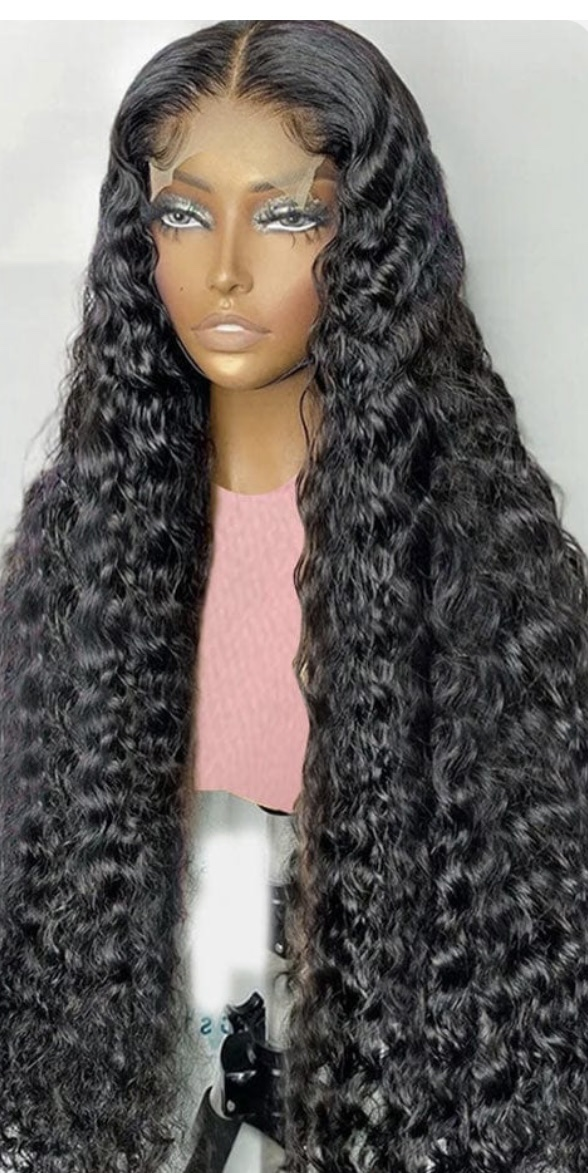
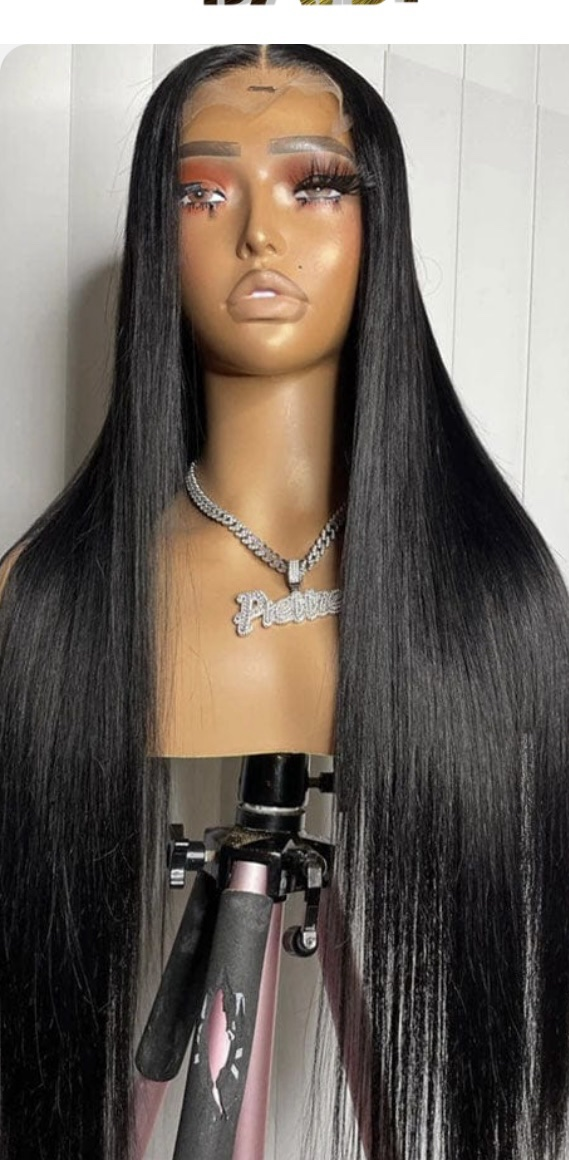
Correct product photos from Ronnie catalog

diff --git a/index.html b/index.html
@@ -10,6 +10,6 @@
 <header class="top"><div class="nav"><div class="logo">ronnie<span>+</span></div><div class="navitem">Bonjour<br><b>Manuella</b></div><div class="search"><input placeholder="Rechercher dans Ronnie Extensions"><button>⌕</button></div><div class="navitem">Compte<br><b>et listes</b></div><div class="navitem">Panier<br><b>0 article</b></div></div><div class="subnav"><span>☰ Toutes les catégories</span><span>Perruques</span><span>Cheveux humains</span><span>Nouvelle sélection</span></div></header>
 <main class="page"><div class="crumb">Accueil › Perruques › Sélection de trois références</div><div class="note"><b>Présentation de travail type Amazon</b> — cette page reproduit la structure d'une fiche produit pour préparer la mise en ligne. Les boutons sont désactivés : rien n'est vendu depuis cette page.</div>
 <section class="product"><div class="gallery"><div class="thumbs"><img src="assets/curly.jpg" alt="Curly vue principale"><img src="assets/curly.jpg" alt="Curly vue secondaire"></div><div class="mainimg"><img src="assets/curly.jpg" alt="Perruque curly 14 pouces"></div></div><div><h1 class="title">Perruque Curly en cheveux humains, lace frontale, 14 pouces, densité 250</h1><div class="subline">Voir les détails du produit</div><div class="rule"></div><div class="price">120,00 €</div><div class="old">Prix communiqué pour cette référence : 120 €</div><div class="rule"></div><h3>À propos de ce produit</h3><ul class="bullets"><li>Perruque avec texture curly et lace frontale.</li><li>Longueur indiquée : 14 pouces.</li><li>Densité indiquée : 250.</li><li>Composition annoncée : 100 % cheveux humains.</li><li>Couleur présentée sur la photo.</li></ul></div><aside class="buybox"><div class="price">120,00 €</div><div class="small">Prix de présentation — frais d'expédition à définir.</div><div class="green">Stock à confirmer</div><select class="select"><option>Couleur : comme sur la photo</option></select><button class="buybtn disabled" disabled>Ajouter au panier</button><button class="buybtn secondary disabled" disabled>Acheter maintenant</button><p class="small">Expédition, retours et stock seront renseignés dans Seller Central.</p></aside></section>
-<section class="product"><div class="gallery"><div class="thumbs"><img src="assets/kinky-straight.jpg" alt="Kinky straight vue principale"><img src="assets/kinky-straight.jpg" alt="Kinky straight vue secondaire"></div><div class="mainimg"><img src="assets/kinky-straight.jpg" alt="Perruque kinky straight 20 pouces"></div></div><div><h1 class="title">Perruque Kinky Straight 5×5, pré-plucked, 20 pouces, densité 250 %, noire</h1><div class="subline">Voir les détails du produit</div><div class="rule"></div><div class="price">210,00 €</div><div class="old">Prix communiqué pour cette référence : 210 €</div><div class="rule"></div><h3>À propos de ce produit</h3><ul class="bullets"><li>Texture Kinky Straight.</li><li>Construction 5×5.</li><li>Modèle indiqué comme pré-plucked.</li><li>Lace déjà coupée.</li><li>Longueur : 20 pouces.</li><li>Densité : 250 %. Couleur : noire.</li></ul></div><aside class="buybox"><div class="price">210,00 €</div><div class="small">Prix de présentation — frais d'expédition à définir.</div><div class="green">Stock à confirmer</div><select class="select"><option>Couleur : noire</option></select><button class="buybtn disabled" disabled>Ajouter au panier</button><button class="buybtn secondary disabled" disabled>Acheter maintenant</button><p class="small">Expédition, retours et stock seront renseignés dans Seller Central.</p></aside></section>
-<section class="product"><div class="gallery"><div class="thumbs"><img src="assets/straight-30.jpg" alt="Lisse 30 pouces vue principale"><img src="assets/straight-30.jpg" alt="Lisse 30 pouces vue secondaire"></div><div class="mainimg"><img src="assets/straight-30.jpg" alt="Perruque lisse 30 pouces"></div></div><div><h1 class="title">Perruque lisse en cheveux humains, 30 pouces, densité 200 %, colorable et décolorable</h1><div class="subline">Voir les détails du produit</div><div class="rule"></div><div class="price">280,00 €</div><div class="old">Prix communiqué pour cette référence : 280 €</div><div class="rule"></div><h3>À propos de ce produit</h3><ul class="bullets"><li>Texture lisse.</li><li>Longueur : 30 pouces.</li><li>Densité : 200 %.</li><li>Composition annoncée : 100 % cheveux humains.</li><li>Référence indiquée comme colorable et décolorable.</li></ul></div><aside class="buybox"><div class="price">280,00 €</div><div class="small">Prix de présentation — frais d'expédition à définir.</div><div class="green">Stock à confirmer</div><select class="select"><option>Couleur : à confirmer</option></select><button class="buybtn disabled" disabled>Ajouter au panier</button><button class="buybtn secondary disabled" disabled>Acheter maintenant</button><p class="small">Expédition, retours et stock seront renseignés dans Seller Central.</p></aside></section>
+<section class="product"><div class="gallery"><div class="thumbs"><img src="assets/kinky-straight.jpg" alt="Perruque kinky straight 20 pouces vue principale"><img src="assets/kinky-straight.jpg" alt="Perruque kinky straight 20 pouces vue secondaire"></div><div class="mainimg"><img src="assets/kinky-straight.jpg" alt="Perruque kinky straight 20 pouces"></div></div><div><h1 class="title">Perruque Kinky Straight 5×5, pré-plucked, 20 pouces, densité 250 %, noire</h1><div class="subline">Voir les détails du produit</div><div class="rule"></div><div class="price">210,00 €</div><div class="old">Prix communiqué pour cette référence : 210 €</div><div class="rule"></div><h3>À propos de ce produit</h3><ul class="bullets"><li>Texture Kinky Straight.</li><li>Construction 5×5.</li><li>Modèle indiqué comme pré-plucked.</li><li>Lace déjà coupée.</li><li>Longueur : 20 pouces.</li><li>Densité : 250 %. Couleur : noire.</li></ul></div><aside class="buybox"><div class="price">210,00 €</div><div class="small">Prix de présentation — frais d'expédition à définir.</div><div class="green">Stock à confirmer</div><select class="select"><option>Couleur : noire</option></select><button class="buybtn disabled" disabled>Ajouter au panier</button><button class="buybtn secondary disabled" disabled>Acheter maintenant</button><p class="small">Expédition, retours et stock seront renseignés dans Seller Central.</p></aside></section>
+<section class="product"><div class="gallery"><div class="thumbs"><img src="assets/straight-30.jpg" alt="Perruque lisse 30 pouces vue principale"><img src="assets/straight-30.jpg" alt="Perruque lisse 30 pouces vue secondaire"></div><div class="mainimg"><img src="assets/straight-30.jpg" alt="Perruque lisse 30 pouces"></div></div><div><h1 class="title">Perruque lisse en cheveux humains, 30 pouces, densité 200 %, colorable et décolorable</h1><div class="subline">Voir les détails du produit</div><div class="rule"></div><div class="price">280,00 €</div><div class="old">Prix communiqué pour cette référence : 280 €</div><div class="rule"></div><h3>À propos de ce produit</h3><ul class="bullets"><li>Texture lisse.</li><li>Longueur : 30 pouces.</li><li>Densité : 200 %.</li><li>Composition annoncée : 100 % cheveux humains.</li><li>Référence indiquée comme colorable et décolorable.</li></ul></div><aside class="buybox"><div class="price">280,00 €</div><div class="small">Prix de présentation — frais d'expédition à définir.</div><div class="green">Stock à confirmer</div><select class="select"><option>Couleur : à confirmer</option></select><button class="buybtn disabled" disabled>Ajouter au panier</button><button class="buybtn secondary disabled" disabled>Acheter maintenant</button><p class="small">Expédition, retours et stock seront renseignés dans Seller Central.</p></aside></section>
 <section class="section"><h2>Comparatif des trois références</h2><table class="compare"><tr><th>Produit</th><th>Caractéristiques</th><th>Prix communiqué</th><th>À compléter</th></tr><tr><td>Curly 14 pouces</td><td>Curly · lace frontale · densité 250 · cheveux humains annoncés</td><td>120 €</td><td>Couleur exacte, stock, expédition</td></tr><tr><td>Kinky straight 20 pouces</td><td>5×5 · pré-plucked · lace coupée · densité 250 % · noire</td><td>210 €</td><td>Stock, expédition, rattachement exact du lien site</td></tr><tr><td>Lisse 30 pouces</td><td>Densité 200 % · cheveux humains annoncés · colorable/décolorable</td><td>280 €</td><td>Couleur exacte, bonnet/lace, stock, expédition</td></tr></table></section></main><footer class="footer">Ronnie Extensions · Présentation de préparation · Les boutons sont désactivés et aucune commande ne peut être passée sur cette page.</footer></body></html>
